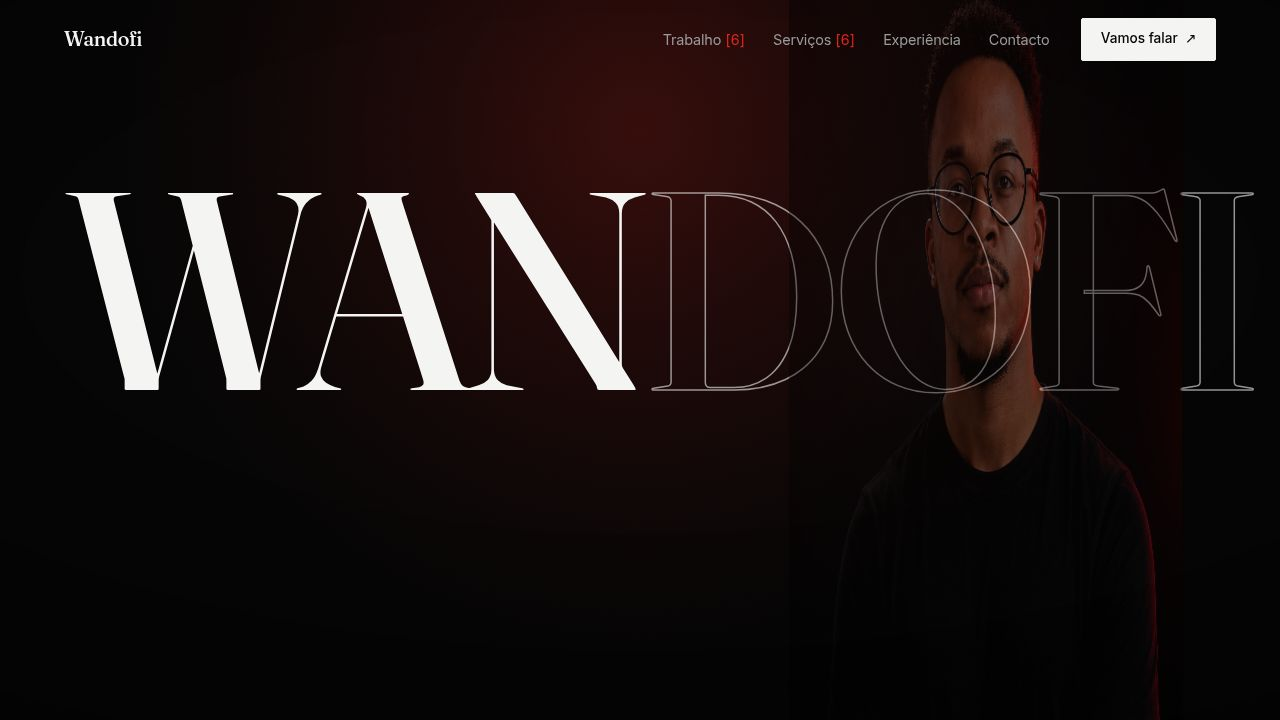
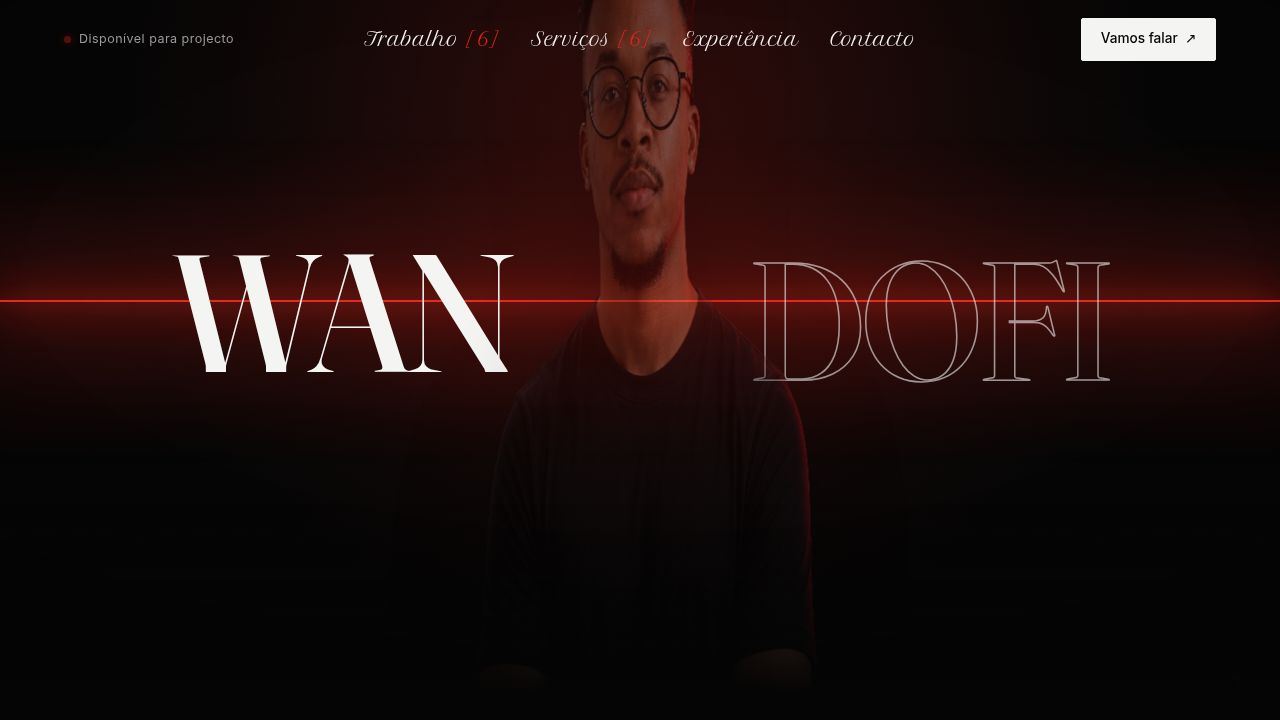
Add a glowing horizontal line to the website's hero section
Introduce a new HTML element and CSS styles to create a visual horizontal red line in the hero section, applying the chosen design.

Replit-Commit-Author: Agent
Replit-Commit-Session-Id: c7ea17d8-0d81-4b51-a367-6e38ea24d3b7
Replit-Commit-Checkpoint-Type: full_checkpoint
Replit-Commit-Event-Id: a029ad3c-0697-496f-8ba0-d19481d5108d
Replit-Commit-Screenshot-Url: https://storage.googleapis.com/screenshot-production-us-central1/93272175-47aa-465a-8afd-6645ae32d7b0/c7ea17d8-0d81-4b51-a367-6e38ea24d3b7/e3RsSE0
Replit-Helium-Checkpoint-Created: true

diff --git a/artifacts/wandofi/public/styles.css b/artifacts/wandofi/public/styles.css
@@ -274,6 +274,44 @@ ul { list-style: none; margin: 0; padding: 0; }
   justify-content: center;
   min-height: clamp(340px, 52vh, 600px);
 }
+
+/* The single red light, taken literally: one glowing horizon line through the subject */
+.hero__line {
+  position: absolute;
+  top: 50%;
+  left: 50%;
+  width: 100vw;
+  transform: translate(-50%, -50%);
+  z-index: 0; /* behind wordmark (z-index 1) and portrait (z-index 2) */
+  pointer-events: none;
+}
+.hero__line::before {
+  content: "";
+  display: block;
+  height: 2px;
+  width: 100%;
+  background: var(--red);
+  box-shadow: 0 0 120px 20px rgba(225, 37, 27, 0.4), 0 0 40px 5px var(--red-glow);
+}
+.hero__line::after {
+  content: "";
+  position: absolute;
+  left: 0;
+  right: 0;
+  top: 50%;
+  transform: translateY(-50%);
+  height: clamp(280px, 46vh, 500px);
+  background: linear-gradient(
+    to bottom,
+    transparent,
+    rgba(225, 37, 27, 0.08) 45%,
+    rgba(225, 37, 27, 0.15) 50%,
+    rgba(225, 37, 27, 0.08) 55%,
+    transparent
+  );
+  mix-blend-mode: screen;
+  pointer-events: none;
+}
 .status-dot {
   width: 7px; height: 7px; border-radius: 50%;
   background: var(--red);

diff --git a/artifacts/wandofi/index.html b/artifacts/wandofi/index.html
@@ -105,6 +105,7 @@
         </div>
 
         <div class="hero__stage">
+          <div class="hero__line" aria-hidden="true"></div>
           <h1 class="hero__title">
             <span class="display" aria-hidden="true">
               <span class="display__solid">WAN</span><span class="display__outline">DOFI</span>

diff --git a/.agents/memory/hero-design-decision.md b/.agents/memory/hero-design-decision.md
@@ -8,10 +8,28 @@ description: Which Wandofi hero composition is approved vs. which canvas explora
 The **current** live hero is the approved one: centered top nav, the split
 display wordmark `WAN ... DOFI` (Fraunces) with the transparent cutout portrait
 centered between the two halves, and the bottom meta row (eyebrow + "Vamos falar"
-/ "Ver trabalho" buttons left, social column right).
+/ "Ver trabalho" buttons left, social column right). Plus the single red **horizon
+line** (`.hero__line`) crossing the wordmark centre — see below.
 
 **Why:** the owner reviewed canvas explorations and said "keep design like this"
-while pointing at the live site (no red frame, centered composition).
+while pointing at the live site (no red box frame, centered composition); then
+later approved the "Linha — luz única literal" red-light treatment.
+
+# Adopted: single red horizon line (graduated from canvas)
+
+The owner explored "light AS the framing device" (questioning RedFrame's literal
+box) and picked **Horizon / "Linha — luz única literal"**: one glowing horizontal
+red line crossing the hero through the wordmark/subject. It was graduated into the
+live site and kept *alongside* the scroll-scrubbed `#spotlight` (not replacing the
+brand's single-light motif). The two sibling variants — **Spotlight ("Holofote")**
+and **Threshold ("Limiar — portal de luz")** — were NOT chosen.
+
+**Why:** the owner wanted the "single red light" reinterpreted as its most
+restrained, literal form. Implementation mechanics live in `replit.md`.
+
+**How to apply:** the line is tuned to cross the wordmark centre at desktop
+(~1920); on mobile the stacked layout drops it to a subtle base glow — that is
+acceptable, do not chase pixel-perfect cross-breakpoint alignment unless asked.
 
 # Rejected explorations (do NOT re-apply unless asked)
 

diff --git a/replit.md b/replit.md
@@ -29,6 +29,7 @@ Dark, single-red-light personal brand site for Mauro Cordeiro (Wandofi) — a pr
 - Built framework-free on purpose: the brief requires a Cloudflare-Pages-exportable site with GSAP/ScrollTrigger/Lenis as the only external deps. Everything lives in `public/` so Vite serves it untransformed and copies it verbatim on build.
 - The footer "WANDOFI PM" logo is the original raster PNG (`wandofi-pm-logo.png`), used untouched and shown on a white plate (`.signature__plate`) so its dark wordmark stays legible over the near-black footer.
 - The single red light is one fixed radial overlay (`#spotlight`, `mix-blend-mode: screen`) whose vertical position is scrubbed by scroll and dimmed near the footer.
+- In the hero, that single light is also taken literally as one glowing horizontal line: `.hero__line` (a full-viewport-width element inside `.hero__stage`, positioned at `top:50%` so it crosses the wordmark's vertical centre). The line itself is the `::before` (2px red + bloom box-shadow); the `::after` is a soft `mix-blend-mode:screen` bloom band. It sits at `z-index:0` so the wordmark (z1) and portrait (z2) stay in front and the figure occludes it. This is the graduated "Linha — luz única literal" hero exploration.
 - Hero composition (Dribbble-style): centred nav (left `.nav__status` "Disponível…" dot, links absolutely centred at `left:50%`, CTA right via `margin-left:auto`); the `.display` wordmark is a flex row with `justify-content:space-between` so `WAN` sits far-left and `DOFI` far-right, and the absolutely-centred `.hero__portrait` fills the middle gap (so no text crosses the face). `.hero__meta` holds the eyebrow+actions (left) and social column (right). At ≤1040px the status text is hidden to avoid crowding the centred links; ≤880px stacks the stage/meta and the portrait goes static.
 - Key/visible elements (logo wordmark) are never hidden behind animation timing — only enhanced — so a direct deep-link (e.g. `#footer`) never shows a blank logo.
 